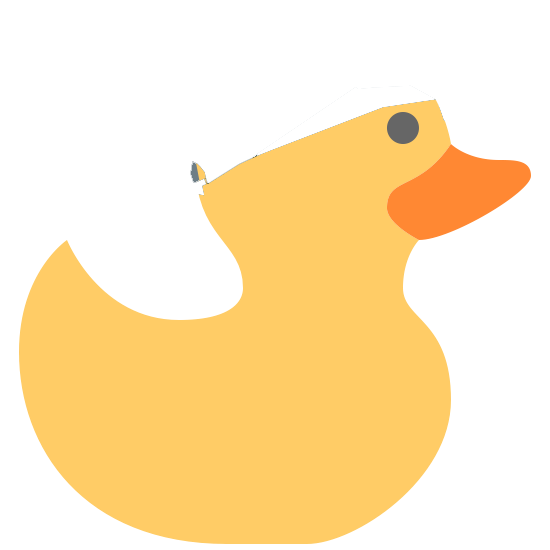
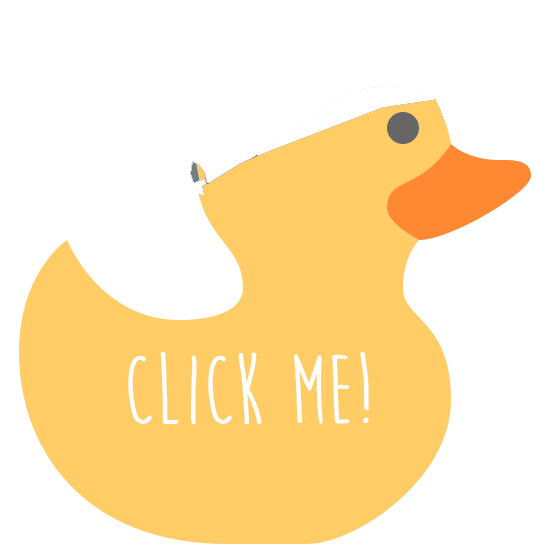
index changes

Changed region(s): [[0.2164, 0.6182, 0.4945, 0.7727], [0.5255, 0.6491, 0.68, 0.7727]]

diff --git a/client/templates/index.html b/client/templates/index.html
@@ -1,5 +1,4 @@
 <template name="index">
-
   <head>
     <!-- Standard Meta -->
     <meta charset="utf-8" />
@@ -43,7 +42,7 @@
       margin-left: 0.5em;
     }
     .masthead h1.ui.header {
-      margin-top: 0em;
+      margin-top: 3em;
       margin-bottom: 0em;
       font-size: 4em;
       font-weight: normal;
@@ -88,15 +87,14 @@
     .secondary.pointing.menu .toc.item {
       display: none;
     }
-
-    #stupidform {
-      position:relative;
-      top: 50%;
-      transform: translateY(-50%);
-      left: 50%;
-      transform: translateX(-50%);
-    }
-
+      #stupidform {
+        position:relative;
+        top: 50%;
+        transform: translateY(-50%);
+        left: 50%;
+        transform: translateX(-50%);
+      }
+    #login-part{}
     @media only screen and (max-width: 700px) {
       .ui.fixed.menu {
         display: none !important;
@@ -132,96 +130,216 @@
     $(document)
     .ready(function() {
 
-        // fix menu when passed
-        $('.masthead')
-        .visibility({
-          once: false,
-          onBottomPassed: function() {
-            $('.fixed.menu').transition('fade in');
-          },
-          onBottomPassedReverse: function() {
-            $('.fixed.menu').transition('fade out');
-          }
-        })
-        ;
-
-        // create sidebar and attach to menu open
-        $('.ui.sidebar')
-        .sidebar('attach events', '.toc.item')
-        ;
-
+      // fix menu when passed
+      $('.masthead')
+      .visibility({
+        once: false,
+        onBottomPassed: function() {
+          $('.fixed.menu').transition('fade in');
+        },
+        onBottomPassedReverse: function() {
+          $('.fixed.menu').transition('fade out');
+        }
       })
+      ;
+
+      // create sidebar and attach to menu open
+      $('.ui.sidebar')
+      .sidebar('attach events', '.toc.item')
+      ;
+
+    })
     ;
-    </script>
-  </head>
-  <body>
 
+    //  var hashTagActive = "";
+    // $(".scroll").click(function (event) {
+    //     if(hashTagActive != this.hash) { //this will prevent if the user click several times the same link to freeze the scroll.
+    //         event.preventDefault();
+    //         //calculate destination place
+    //         var dest = 0;
+    //         if ($(this.hash).offset().top > $(document).height() - $(window).height()) {
+    //             dest = $(document).height() - $(window).height();
+    //         } else {
+    //             dest = $(this.hash).offset().top;
+    //         }
+    //         //go to destination
+    //         $('html,body').animate({
+    //             scrollTop: dest
+    //         }, 2000, 'swing');
+    //         hashTagActive = this.hash;
+    //     }
+    // });
 
-    <!-- Page Contents -->
-    <div class="pusher">
-      <div class="ui grid">
-        <div class = "sixteen wide column">
-          <div class="ui inverted vertical masthead center aligned segment">
+$(".scroll").click(function(event){
+ event.preventDefault();
+         //calculate destination place
+         var dest=0;
+         if($(this.hash).offset().top > $(document).height()-$(window).height()){
+          dest=$(document).height()-$(window).height();
+        }else{
+          dest=$(this.hash).offset().top;
+        }
+         //go to destination
+         $('html,body').animate({scrollTop:dest}, 1000,'swing');
+       });
 
+</script>
+</head>
+<body>
 
-            <div class="ui text container">
-              <!-- <div class="ui divider"></div> -->
-              <!-- <h1 class="ui inverted header"> -->
-              <div class="frontpagespacing">
-                <div class="ui inverted header">
-                  <div class="hackhomies">
-                    HackHomies
-                  </div>
-                </div>
-                <!-- </h1> -->
-                <br>
-                <br>
-                <br>
-                <!-- <div class="ui divider"></div> -->
-              </div>
-              <img src="http://i649.photobucket.com/albums/uu213/jessie_wang1/duckcopy_zps1meckvp1.png" style="width:200px;height:200px;">
-              <!-- style="width:150px;height:100px; -->
-            </div>
-          </div>
+  <!-- Following Menu -->
+  <div class="ui large top fixed hidden menu">
+    <div class="ui container">
+      <a class="active item">Home</a>
+      <a class="item">Work</a>
+      <a class="item">Company</a>
+      <a class="item">Careers</a>
+      <div class="right menu">
+        <div class="item">
+          <a class="ui button">Log in</a>
         </div>
-        <div class="row">
-          <p></p>
-          <br>
-          <br>
-          <br>
-          <br>
-          <br>
-        </div>
-        <div class = "five wide column"></div>
-        <div class = "six wide column">
-          <div class="ui middle aligned stackable grid container">
-            <br>
-            <br>
-            <br>
-            <br>
-            <br>
-            <!--<script> document.getElementById("stupidform").style.width = "40%"; </script>-->
-            <div id="stupidform">
-              {{> atForm}}
-            </div>
-          </div>
-        </div>
-        <div class = "five wide column"></div>
-        <div class="row">
-          <p></p>
-          <br>
-          <br>
-          <br>
-          <br>
-          <br>
-          <br>
-          <br>
-          <br>
-          <br>
+        <div class="item">
+          <a class="ui primary button">Sign Up</a>
         </div>
       </div>
     </div>
+  </div>
 
-  </body>
+  <!-- Sidebar Menu -->
+  <div class="ui vertical inverted sidebar menu">
+    <a class="active item">Home</a>
+    <a class="item">Work</a>
+    <a class="item">Company</a>
+    <a class="item">Careers</a>
+    <a class="item">Login</a>
+    <a class="item">Signup</a>
+  </div>
 
+
+  <!-- Page Contents -->
+  <div class="pusher">
+    <div class="ui inverted vertical masthead center aligned segment">
+
+      <div class="ui text container">
+        <!-- <div class="ui divider"></div> -->
+        <!-- <h1 class="ui inverted header"> -->
+        <div class="frontpagespacing">
+          <div class="ui inverted header">
+            <div class="hackhomies">
+              HackHomies
+            </div>
+          </div>
+          <!-- </h1> -->
+          <br>
+          <br>
+          <br>
+          <!-- <div class="ui divider"></div> -->
+        </div>
+
+        <!-- <img src="/duck.png" style="width:200px;height:200px;"> -->
+
+        <img src="/transparentgrayduck.png" style="width:160px;height:160px">
+        <a class="scroll" href="#login">
+             <!--  <input type="button" onClick="document.getElementById('middle').scrollIntoView();" />
+             <input type="image" src="/duck.png" name="jumptologin" class="btTxt submit" id="saveForm" /> -->
+             <img src="/duck.png" style="width:160px;height:160px;"></a>
+             <img src="/transparentgrayduck.png" style="width:160px;height:160px">
+           </div>
+
+         </div>
+         <section id="login">
+          <div class="ui vertical stripe segment">
+            <div class="ui middle aligned stackable grid container">
+              <div class="row">
+                <div class="five wide column"></div>
+                <div class="six wide column">
+                  <div id="stupidform">
+                    {{> atForm}}
+                  </div>
+                </div>
+                <div class="five wide column"></div>
+              </div>
+      <!-- <div class="row">
+        <div class="eight wide column">
+          <h3 class="ui header">We Help Companies and Companions</h3>
+          <p>We can give your company superpowers to do things that they never thought possible. Let us delight your customers and empower your needs...through pure data analytics.</p>
+          <h3 class="ui header">We Make Bananas That Can Dance</h3>
+          <p>Yes that's right, you thought it was the stuff of dreams, but even bananas can be bioengineered.</p>
+        </div>
+        <div class="six wide right floated column">
+          <img src="assets/images/wireframe/white-image.png" class="ui large bordered rounded image">
+        </div>
+      </div>
+      <div class="row"> -->
+      <!--   <div class="center aligned column">
+          <a class="ui huge button">Check Them Out</a>
+        </div>
+      </div> -->
+
+    </div>
+  </div>
+</section>
+
+
+<div class="ui vertical  quote segment">
+  <div class="ui equal width stackable internally celled grid">
+    <div class="center aligned row">
+      <div class="column">
+        <p></p>
+      </div>
+      <div class="column">
+        <p>
+          <!-- <img src="assets/images/avatar/nan.jpg" class="ui avatar image"> <b>Nan</b> Chief Fun Officer Acme Toys -->
+        </p>
+      </div>
+    </div>
+  </div>
+</div>
+
+<!-- <div class="ui vertical stripe segment">
+  <div class="ui text container">
+    <h3 class="ui header">Breaking The Grid, Grabs Your Attention</h3>
+    <p>Instead of focusing on content creation and hard work, we have learned how to master the art of doing nothing by providing massive amounts of whitespace and generic content that can seem massive, monolithic and worth your attention.</p>
+    <a class="ui large button">Read More</a>
+    <h4 class="ui horizontal header divider">
+      <a href="#">Case Studies</a>
+    </h4>
+    <h3 class="ui header">Did We Tell You About Our Bananas?</h3>
+    <p>Yes I know you probably disregarded the earlier boasts as non-sequitor filler content, but its really true. It took years of gene splicing and combinatory DNA research, but our bananas can really dance.</p>
+    <a class="ui large button">I'm Still Quite Interested</a>
+  </div>
+</div> -->
+
+
+<div class="ui inverted vertical footer segment">
+ <!--  <div class="ui container">
+    <div class="ui stackable inverted divided equal height stackable grid">
+      <div class="three wide column">
+        <h4 class="ui inverted header">About</h4>
+        <div class="ui inverted link list">
+          <a href="#" class="item">Sitemap</a>
+          <a href="#" class="item">Contact Us</a>
+          <a href="#" class="item">Religious Ceremonies</a>
+          <a href="#" class="item">Gazebo Plans</a>
+        </div>
+      </div>
+      <div class="three wide column">
+        <h4 class="ui inverted header">Services</h4>
+        <div class="ui inverted link list">
+          <a href="#" class="item">Banana Pre-Order</a>
+          <a href="#" class="item">DNA FAQ</a>
+          <a href="#" class="item">How To Access</a>
+          <a href="#" class="item">Favorite X-Men</a>
+        </div>
+      </div>
+      <div class="seven wide column">
+        <h4 class="ui inverted header">Footer Header</h4>
+        <p>Extra space for a call to action inside the footer that could help re-engage users.</p>
+      </div>
+    </div>
+  </div> -->
+</div>
+</div>
+
+</body>
 </template>

diff --git a/client/templates/layout.html b/client/templates/layout.html
@@ -2,7 +2,7 @@
 	<body>
 		<head>
 			<meta name="viewport" content="width=device-width, initial-scale=1">
-			<link rel='icon' href='/favicon.ico' type='image/x-icon' >
+			<link rel='icon' href='/ducklogo.png' type='image/png' >
 		</head>
 		<div class="ui grid">
 			<div class = "sixteen wide column">
@@ -15,9 +15,9 @@
 							</div>
 							<div class="results"></div>
 						</div>
-						<div class="header item" style="font-family:'Moon Flower';font-size:25px;padding-top:0px;padding-bottom:0px">
+						<div class="header item" style="font-family:'Moon Flower';font-size:30px;padding-top:0px;padding-bottom:0px">
 							HackHomies 
-							<img class="ui mini image" src="ducklogo.png" style="width:16px; height:16px;">
+							<img class="ui mini image" src="ducklogo.png" style="width:30px; height:30px;">
 						</div>
 						<a class="ui item" href="/sign-out">
 							Log Out

diff --git a/hackhomies.css b/hackhomies.css
@@ -1,5 +1,7 @@
 body {
-  background-image: url("http://i649.photobucket.com/albums/uu213/jessie_wang1/grayduckstransparent_zpsdzikd9tr.png");
+  /*background-image: url("/supertransparentducks.png");*/
+  /*background-image:url("http://i649.photobucket.com/albums/uu213/jessie_wang1/grayduckstransparent_zpsdzikd9tr.png");*/
+  background-image: url("http://i649.photobucket.com/albums/uu213/jessie_wang1/supertransparentducks_zpsqxkggxwg.png");
   background-attachment: fixed;
 }
 .hackhomies {
@@ -30,7 +32,7 @@ body {
 #bot{}
 
 .ui.vertical.menu {
-  width: 11rem;
+  width: 13rem;
 }
 
 @font-face{

diff --git a/hackhomies.js b/hackhomies.js
@@ -7,6 +7,7 @@ if (Meteor.isClient) {
     passwordSignupFields: "USERNAME_ONLY"
   });
 
+
   Template.nav.helpers({
     teamCount: function () {
       return Profiles.findOne({_id: Meteor.userId()}).team.length;

diff --git a/client/lib/semantic-ui/site/collections/menu.variables.import.less b/client/lib/semantic-ui/site/collections/menu.variables.import.less
@@ -3,3 +3,4 @@
 *******************************/
 @verticalBackground: @primaryColor;
 @mediumwidth: 10rem;
+@background: @backgroundgrey;
